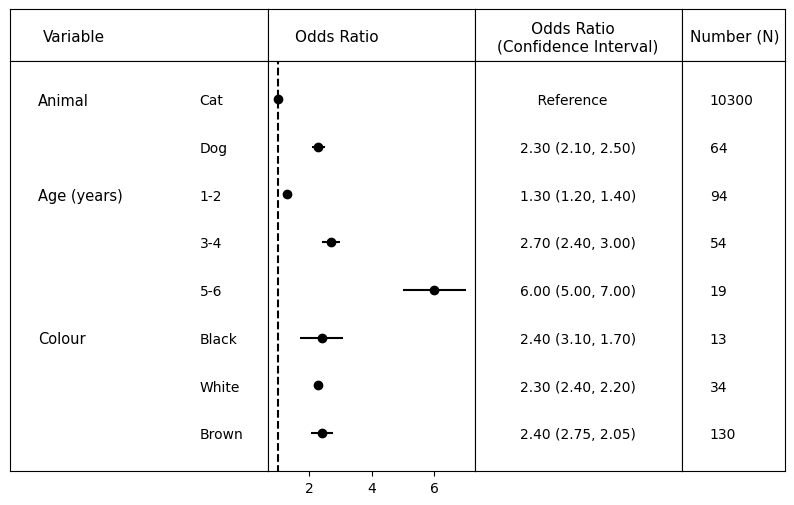
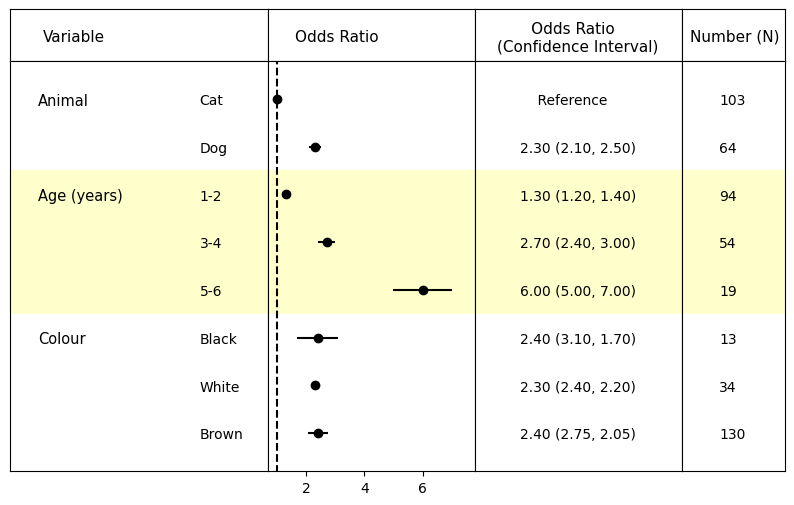
added group colouring

diff --git a/reg_vis.py b/reg_vis.py
@@ -48,6 +48,37 @@ def pack_errors(df):
             errors[1, i] = df["Odds Ratio"][i] - df['Conf int lower'][i]
     return errors
 
+def firstUnqiue(input_list):
+    output = []
+    for item in input_list:
+        if item not in output:
+            output.append(item)
+    return output
+
+def getGroupBoundaries(df):
+    '''
+    Parameters
+    ----------
+    all_groups : array-like
+        list of the group each variable belongs to .
+
+    Returns
+    -------
+    boundaries : array
+        array of lists containing boundaries for each group.
+    '''
+    all_groups = df["Variable group"].values
+    groups = firstUnqiue(all_groups)
+    N_groups = len(groups)
+    boundaries = np.zeros(N_groups, dtype = object)
+    last = len(all_groups)
+    for i, group in enumerate(groups):
+        N_group_i = len(all_groups[all_groups == group])
+        new_boundary = [last, last - N_group_i]
+        last -= N_group_i
+        boundaries[i] = new_boundary
+    return boundaries
+
 class reg_plot:
     def __init__(self):
         self.font_size = 10
@@ -62,7 +93,11 @@ class reg_plot:
         elif extension == "xlsx":
             self.df = pd.read_excel(data_path)
     
-    def plot(self, counts = False):
+    def plot(self, 
+             counts = False,
+             group1_color = None,
+             group2_color = None,
+             group_alpha = 0.2):
         # set plot size
         plt.rc('font', size=self.font_size)
         
@@ -88,7 +123,6 @@ class reg_plot:
         
         ticks = np.arange(1, num_items+1)
         ylims = [1-0.1*num_items, num_items+0.1*num_items]
-        
         
         ## Headers ##
         header_labels = ["Variable", 
@@ -152,6 +186,9 @@ class reg_plot:
         ax2.set_yticks(ticks)
         ax2.set_yticklabels(self.df["Variable"].values[::-1])
         ax2.tick_params(right = False, left = False)
+        ax2.set_xlim(min(self.df['Odds Ratio'])-0.3, 
+                     max(self.df['Odds Ratio'])*1.3)
+        
         
         # offset y ticks
         offset_ax2 = ScaledTranslation(-2.85 + self.var_offset, 0, self.fig.dpi_scale_trans)
@@ -169,7 +206,7 @@ class reg_plot:
         ax3.set_ylim(ylims)
         
         ax3.tick_params(right = False, left = False)
-        
+        ax3.set_xlim(0, 1)
         # offset y ticks
         offset_ax3 = ScaledTranslation(-1.60 - counts*0.11, 0, self.fig.dpi_scale_trans)
         for label in ax3.yaxis.get_majorticklabels():
@@ -185,13 +222,52 @@ class reg_plot:
             # Add the numbers here
             ax4.set_yticklabels(self.df["Number"].values[::-1])
             ax4.set_ylim(ylims)
-            
+            ax4.set_xlim(0, 1)
             # get maximum number magnitude to move positions accordingly
             max_mag = np.log10(max(self.df["Number"].values)) + 1
             offset_ax4 = ScaledTranslation(-0.6-max_mag/20, 0, self.fig.dpi_scale_trans)
             for label in ax4.yaxis.get_majorticklabels():
                 label.set_transform(label.get_transform() + offset_ax4)
             
+        ## Group color ##
+        if group1_color != None or group2_color != None :
+            boundaries = getGroupBoundaries(self.df)
+            for i, boundary in enumerate(boundaries):
+                if i % 2 == 0:
+                    color = group1_color
+                else:
+                    color = group2_color
+                    
+                if i == 0:
+                    boundary[0] = ylims[1]
+                elif i == len(boundaries)-1:
+                    boundary[1] = ylims[0]-0.5
+                if color != None:    
+                    ax1.fill_between([0, 1], 
+                                     [boundary[0]+0.5,boundary[0]+0.5],
+                                     [boundary[1]+0.5,boundary[1]+0.5],
+                                     color = color,
+                                     lw = 0,
+                                     alpha = group_alpha)
+                    ax2.fill_between([-10, 10], 
+                                     [boundary[0]+0.5,boundary[0]+0.5],
+                                     [boundary[1]+0.5,boundary[1]+0.5],
+                                     color = color,
+                                     lw = 0,
+                                     alpha = group_alpha)
+                    ax3.fill_between([0, 1], 
+                                     [boundary[0]+0.5,boundary[0]+0.5],
+                                     [boundary[1]+0.5,boundary[1]+0.5],
+                                     color = color,
+                                     lw = 0,
+                                     alpha = group_alpha)
+                    if counts:
+                        ax4.fill_between([0, 1], 
+                                     [boundary[0]+0.5,boundary[0]+0.5],
+                                     [boundary[1]+0.5,boundary[1]+0.5],
+                                     color = color,
+                                     lw = 0,
+                                     alpha = group_alpha)
     def save_plot(self, save_path):
         plt.savefig(save_path, bbox_inches="tight")
 

diff --git a/example/example_code.py b/example/example_code.py
@@ -9,5 +9,7 @@ import reg_vis
 
 reg_vis = reg_vis.reg_plot()
 reg_vis.load_data("example_data.xlsx")
-reg_vis.plot(counts = True)
+reg_vis.plot(counts = True, 
+             group1_color = None,
+             group2_color = "yellow")
 reg_vis.save_plot("example_plot.png")
